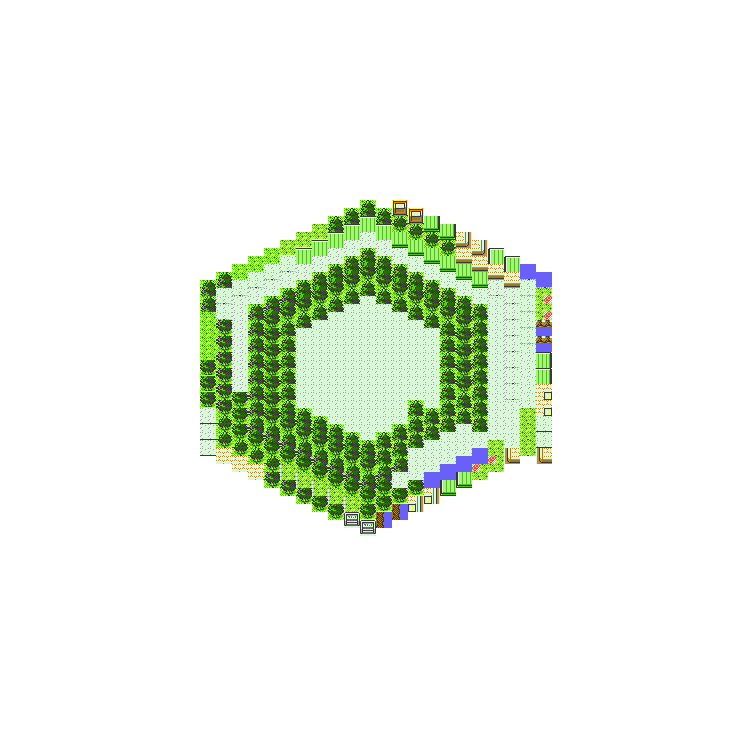
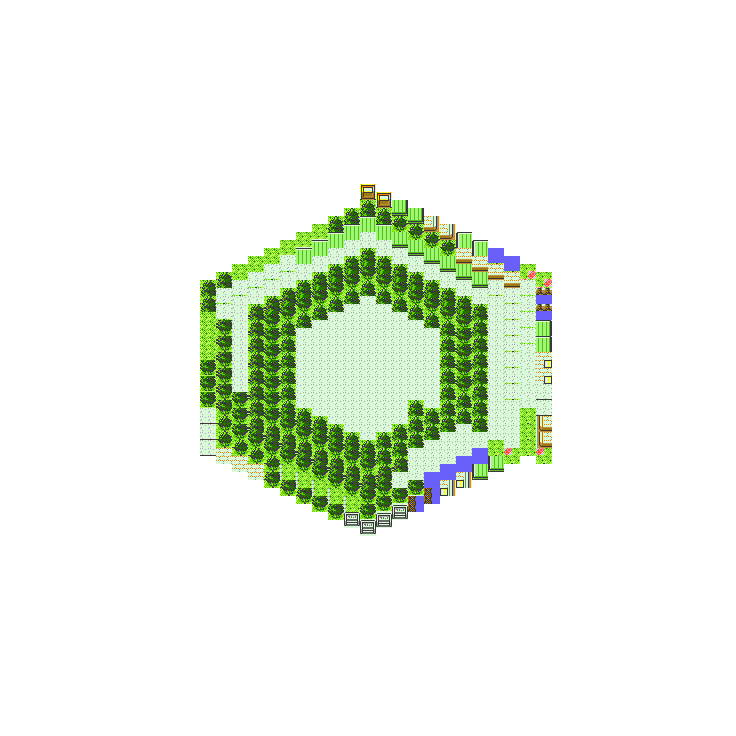
more updates

Changed region(s): [[0.4688, 0.25, 0.75, 0.7188]]

diff --git a/printer.py b/printer.py
@@ -12,7 +12,7 @@ def printHex(sTownName):
     # initialize vars
     
     lDirectionVectors = [(0,-2*iSquareRadius),(-2*iSquareRadius,-1*iSquareRadius),(-2*iSquareRadius,1*iSquareRadius),(0,2*iSquareRadius),(2*iSquareRadius,1*iSquareRadius),(2*iSquareRadius,-1*iSquareRadius)] # down, SSW, NNW, up, NNE, SSE... and no, SSW is not southby -_-
-    iNumRings = 23
+    iNumRings = 24
     lRepeatImageNames = buildDuplicatesList(sTownName)
     iImageWidth = 2*iNumRings*2*iSquareRadius
     iImageHeight = 2*iNumRings*2*iSquareRadius
@@ -36,13 +36,17 @@ def printHex(sTownName):
         lCurrentDirectionVector = lDirectionVectors[ iDirectionVectorsIndex % len(lDirectionVectors) ]
         print "RING " + str(i) + "------------------------------"
         for j in range(0,iNumTiles): # print tiles for this ring
+            print (iImageIndex)
+            print (len(lRepeatImageNames))
             if iSameDirectionTimes == iDirectionRepeatAmount: # first determine direction for this
                 iSameDirectionTimes = 0 # reset direction count
                 iDirectionVectorsIndex = iDirectionVectorsIndex + 1 # increment to new direction ( we walk around the rings clockwise as we 'paint' )
                 lCurrentDirectionVector = lDirectionVectors[ iDirectionVectorsIndex % len(lDirectionVectors) ] # modulo gives us the proper index such that lDirectionVectors acts as a cirular list
             if iImageIndex == len(lRepeatImageNames): # we've exhausted all our tiles
                 print "No more tiles :( headin on out..."
-                oImage.save("results/" + sTownName + '.png') # save the finished image in the folder with its tiles
+                print "results/" + sTownName + '.png'
+                #oImage.save("results/" + sTownName + '.png') # save the finished image in the folder with its tiles
+                oImage.save(sTownName + "/" + sTownName + '_hex.png')
                 return # done processing
             sFileName = lRepeatImageNames[iImageIndex] # first tile image will be the tile that is repeated most - and will continue for the number of times
             oTileImage = Image.open(sFileName) # open the image that corresponds to the duplicate data
@@ -69,7 +73,6 @@ def drawTree(x1, y1, angle, depth, oImage, iImageIndex, lRepeatImageNames):
         oTileImage = oTileImage.resize((oTileImage.size[0]*depth, oTileImage.size[1]*depth), Image.ANTIALIAS)
         oImage.paste(oTileImage, (x2, y2)) # paste the currently indexed image at the current tree coordintes
         iImageIndex = iImageIndex + 10 # next image
-        print iImageIndex
         drawTree(x2, y2, angle - 45, depth - 1, oImage, iImageIndex, lRepeatImageNames)
         drawTree(x2, y2, angle + 45, depth - 1, oImage, iImageIndex, lRepeatImageNames)
 

diff --git a/main.py b/main.py
@@ -3,8 +3,10 @@ from printer import printBinaryTree
 from tiles import createTiles
 
 # all towns and cities from johto and kanto
-lTownNames = ["azalea", "blackthorn", "celadon", "cerulean", "cherrygrove", "cianwood", "cinnabar", "ecruteak", "fuchsia", 
-"goldenrod", "lavender", "mahogany", "newbark", "olivine", "pallet", "pewter", "saffron", "vermilion", "violet", "viridian"]
+# lTownNames = ["azalea", "blackthorn", "celadon", "cerulean", "cherrygrove", "cianwood", "cinnabar", "ecruteak", "fuchsia", 
+# "goldenrod", "lavender", "mahogany", "newbark", "olivine", "pallet", "pewter", "saffron", "vermilion", "violet", "viridian"]
+
+lTownNames = ["cianwood"]
 
 for sTownName in lTownNames:
     # 1. break town map to tiles
